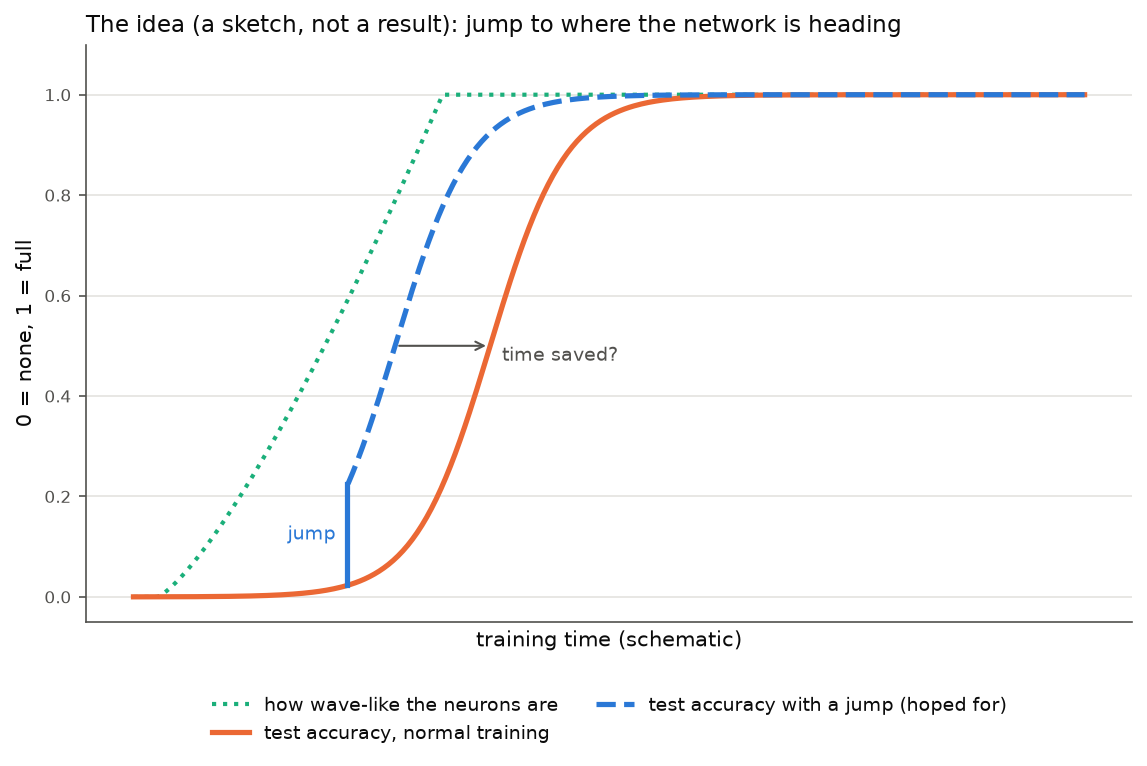
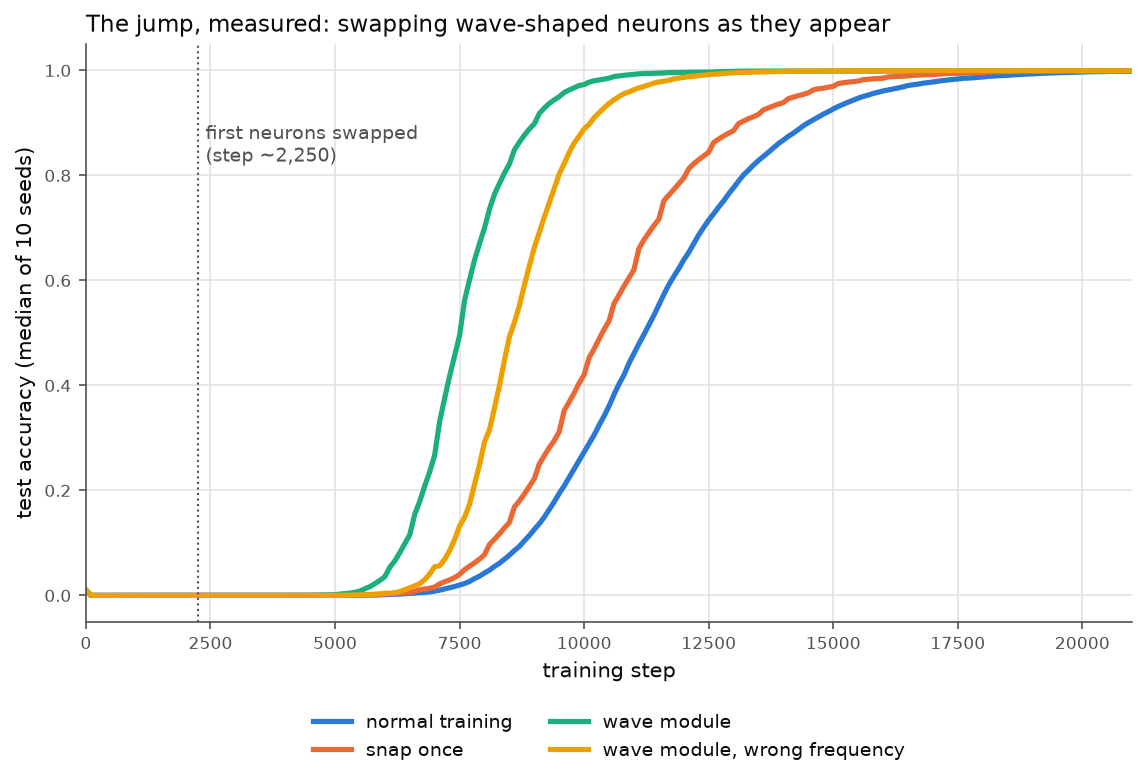
docs: update intuition folder with substitution results
Sections on how the jump idea was tested and what was found: wave module
+41%, wrong-frequency control +33%, waves from step 0 as a lesson in
inductive bias. New figures: per-seed results, snap vs mould drift, and
measured curves replacing the jump sketch.

diff --git a/intuition/make_figures.py b/intuition/make_figures.py
@@ -1,7 +1,7 @@
 """Make the teaching figures for intuition/README.md.
 
 Run from the repo root: uv run python intuition/make_figures.py
-Reads (CPU only) runs/mlp_baseline/seed0/ and writes PNGs to intuition/figures/.
+Reads (CPU only) runs/mlp_baseline/seed0/ and runs/t6/ and writes PNGs to intuition/figures/.
 """
 
 import json
@@ -15,11 +15,26 @@ import numpy as np
 from matplotlib.colors import ListedColormap
 from matplotlib.patches import Patch
 
+from quickgrok.accel import harmonic_basis
 from quickgrok.data import make_dataset
-from quickgrok.train import load_model
+from quickgrok.models import load_model
 
 ROOT = Path(__file__).resolve().parent.parent
 RUN = ROOT / "runs" / "mlp_baseline" / "seed0"
+T6 = ROOT / "runs" / "t6"
+ARMS = {  # run folder -> plain-language label, in plotting order
+    "vanilla": "normal training",
+    "project": "snap once",
+    "module": "wave module",
+    "module_random_k": "wave module, wrong frequency",
+    "module_all_step0": "all waves from the start",
+    "module_all_step0_random_k": "all waves from the start, wrong frequencies",
+}
+SWAP_NEURON = (
+    15,
+    2,
+    3_000,
+)  # neuron, fitted frequency, swap step: first event of seed 0
 OUT = Path(__file__).resolve().parent / "figures"
 P = 97
 NEURON = (
@@ -27,6 +42,7 @@ NEURON = (
 )
 
 BLUE, ORANGE, GREEN, YELLOW = "#2a78d6", "#eb6834", "#1baf7a", "#eda100"
+COLOURS = (BLUE, ORANGE, GREEN, YELLOW, "#e87ba4", "#008300")
 INK, MUTED, GRID = "#0b0b0b", "#52514e", "#e4e3df"
 TEST_TINT = (
     "#f7d5c6"  # light orange for the many held-out cells, so the train cells stand out
@@ -429,58 +445,129 @@ def plot_poly_vs_wave() -> None:
     save(fig, "poly_vs_wave.png")
 
 
-def plot_jump_idea() -> None:
-    """Schematic: normal training path vs a hypothetical 'jump' to the visible structure."""
-    t = np.linspace(0, 40, 400)
-    normal = 1 / (1 + np.exp(-(t - 15) / 1.6))
-    t_jump, shift = 9.0, 4.0
-    after = t >= t_jump
-    jump = 1 / (1 + np.exp(-(t[after] - (15 - shift)) / 1.6))
-    structure = np.clip((t - 1) / 12, 0, 1) ** 1.3
-    y0 = 1 / (1 + np.exp(-(t_jump - 15) / 1.6))
+def load_history(run: Path) -> tuple[np.ndarray, np.ndarray]:
+    """Return logged steps and test accuracy of one run from its metrics.json."""
+    hist = json.loads((run / "metrics.json").read_text())
+    return np.array([h["step"] for h in hist]), np.array([h["val_acc"] for h in hist])
 
+
+def grok_step(run: Path) -> int:
+    """First logged step at which test accuracy reaches 99%."""
+    steps, test = load_history(run)
+    return int(steps[np.argmax(test >= 0.99)])
+
+
+def plot_jump_idea() -> None:
+    """Measured test accuracy (median of 10 seeds) for normal training and the three jump arms."""
+    end = 21_000
+    grid = np.arange(0, end + 1, 100)
     fig, ax = plt.subplots(figsize=(9, 5))
-    ax.plot(
-        t, structure, color=GREEN, lw=2, ls=":", label="how wave-like the neurons are"
-    )
-    ax.plot(t, normal, color=ORANGE, lw=2.5, label="test accuracy, normal training")
-    ax.plot(
-        t[after],
-        jump,
-        color=BLUE,
-        lw=2.5,
-        ls="--",
-        label="test accuracy with a jump (hoped for)",
-    )
-    ax.plot([t_jump, t_jump], [y0, jump[0]], color=BLUE, lw=2.5)
+    for (arm, label), color in zip(list(ARMS.items())[:4], COLOURS):
+        curves = []
+        for run in sorted((T6 / arm).glob("seed*")):
+            steps, test = load_history(run)
+            # A run stops 3,000 steps after grokking; hold its last value after that.
+            curves.append(np.interp(grid, steps, test))
+        ax.plot(grid, np.median(curves, axis=0), color=color, lw=2.5, label=label)
+    ax.axvline(2_250, color=MUTED, ls=":", lw=1)
     ax.text(
-        t_jump - 0.5,
-        (y0 + jump[0]) / 2,
-        "jump",
-        color=BLUE,
-        ha="right",
-        va="center",
+        2_400,
+        0.9,
+        "first neurons swapped\n(step ~2,250)",
+        color=MUTED,
         fontsize=9,
+        va="top",
     )
-    ax.annotate(
-        "",
-        xy=(15 - shift, 0.5),
-        xytext=(15, 0.5),
-        arrowprops={"arrowstyle": "<-", "color": MUTED, "lw": 1},
-    )
-    ax.text(
-        15 + 0.5, 0.48, "time saved?", ha="left", va="center", color=MUTED, fontsize=9
-    )
-    ax.set_xlabel("training time (schematic)")
-    ax.set_ylabel("0 = none, 1 = full")
-    ax.set_xticks([])
-    ax.set_ylim(-0.05, 1.1)
-    ax.set_title(
-        "The idea (a sketch, not a result): jump to where the network is heading"
-    )
-    ax.legend(loc="upper center", bbox_to_anchor=(0.5, -0.1), ncol=2, fontsize=9)
+    ax.set_xlim(0, end)
+    ax.set_ylim(-0.05, 1.05)
+    ax.set_xlabel("training step")
+    ax.set_ylabel("test accuracy (median of 10 seeds)")
+    ax.set_title("The jump, measured: swapping wave-shaped neurons as they appear")
+    ax.legend(loc="upper center", bbox_to_anchor=(0.5, -0.13), ncol=2, fontsize=9)
     style_axes(ax)
     save(fig, "jump_idea.png")
+
+
+def plot_results_dots() -> None:
+    """Steps to 99% test accuracy per seed for the six arms, median marked."""
+    fig, ax = plt.subplots(figsize=(10, 5.4))
+    rng = np.random.default_rng(0)
+    base = None
+    for row, ((arm, label), color) in enumerate(zip(ARMS.items(), COLOURS)):
+        steps = np.array([grok_step(r) for r in sorted((T6 / arm).glob("seed*"))])
+        y = -row + rng.uniform(-0.15, 0.15, len(steps))  # jitter so equal steps show
+        ax.plot(steps, y, "o", color=color, ms=6, mec="white", mew=0.8)
+        med = float(np.median(steps))
+        base = base or med
+        ax.plot([med, med], [-row - 0.3, -row + 0.3], color=INK, lw=2)
+        note = f"median {med:,.0f}" + (
+            "" if row == 0 else f"  ({1 - med / base:.0%} fewer)"
+        )
+        ax.text(med + 250, -row + 0.3, note, fontsize=9, va="bottom")
+    ax.plot([], [], "o", color=MUTED, ms=6, label="one seed (one training run)")
+    ax.plot([], [], color=INK, lw=2, label="median of 10 seeds")
+    ax.set_yticks(-np.arange(len(ARMS)), list(ARMS.values()))
+    ax.tick_params(axis="y", labelsize=10, colors=INK)
+    ax.set_ylim(-len(ARMS) + 0.4, 0.8)
+    ax.set_xlim(0, 21_000)
+    ax.set_xlabel("training steps until test accuracy ≥ 99% (fewer is faster)")
+    ax.set_title("How long each version takes to grok (10 seeds each)")
+    ax.legend(loc="upper center", bbox_to_anchor=(0.5, -0.13), ncol=2, fontsize=9)
+    style_axes(ax)
+    ax.grid(axis="y", visible=False)
+    save(fig, "results_dots.png")
+
+
+def outside_share(run: Path, neuron: int, k: int) -> tuple[np.ndarray, np.ndarray]:
+    """Share of a neuron's input-weight energy (column of U) outside its fitted waves, per checkpoint.
+
+    The waves are the 9 basis functions used by the substitution: a constant plus cos and sin
+    of frequency k and its harmonics 2k, 3k, 4k.
+    """
+    B = harmonic_basis([k], P, 4)[0].double().numpy()
+    proj = B @ np.linalg.pinv(B)
+    steps, shares = [], []
+    for ckpt in sorted(run.glob("step_*.pt")):
+        u = (
+            load_model(ckpt)[0]
+            .state_dict()["embed_a.weight"]
+            .double()
+            .numpy()[:, neuron]
+        )
+        r = u - proj @ u
+        steps.append(int(ckpt.stem.removeprefix("step_")))
+        shares.append(float(r @ r / (u @ u)))
+    return np.array(steps), np.array(shares)
+
+
+def plot_snap_vs_mould() -> None:
+    """One neuron (seed 0) swapped at the same moment in a 'snap once' and a 'module' run."""
+    neuron, k, swap = SWAP_NEURON
+    fig, axes = plt.subplots(1, 2, figsize=(14, 4.8), gridspec_kw={"wspace": 0.2})
+    for arm, color in zip(list(ARMS)[:3], COLOURS):
+        steps, share = outside_share(T6 / arm / "seed0", neuron, k)
+        if (
+            arm != "vanilla"
+        ):  # checkpoints are saved just before the swap; right after it is 0
+            i = int(np.searchsorted(steps, swap)) + 1
+            steps, share = np.insert(steps, i, swap), np.insert(share, i, 0.0)
+        for ax in axes:
+            ax.plot(steps, 100 * share, color=color, lw=2.2, label=ARMS[arm])
+    for ax in axes:
+        ax.axvline(swap, color=MUTED, ls=":", lw=1)
+        ax.set_xlabel("training step")
+        style_axes(ax)
+    axes[0].set_ylabel("% of weight energy outside its waves")
+    axes[0].text(swap + 300, 70, f"swap at step {swap:,}", color=MUTED, fontsize=9)
+    axes[0].set_title(f"Neuron {neuron} (frequency {k}), seed 0: whole run")
+    axes[0].legend(loc="upper right", fontsize=9)
+    ax = axes[1]
+    ax.set_xlim(swap - 500, 21_500)
+    ax.set_ylim(-1, 20)
+    ax.set_title("Zoom after the swap: snapped drifts back, moulded stays at 0")
+    ax.text(12_000, 9, "snap once: back to ~7%,\nlike normal training", color=ORANGE)
+    ax.text(12_000, 1.5, "wave module: held at 0%", color=GREEN)
+    save(fig, "snap_vs_mould.png")
 
 
 def main() -> None:
@@ -491,6 +578,8 @@ def main() -> None:
     plot_neuron_lens()
     plot_poly_vs_wave()
     plot_jump_idea()
+    plot_results_dots()
+    plot_snap_vs_mould()
 
 
 if __name__ == "__main__":

diff --git a/intuition/README.md b/intuition/README.md
@@ -1,6 +1,6 @@
 # Grokking, and can we make it happen sooner?
 
-*An intuition-first tour of the quickgrok project, written for second-semester data science students. Status as of 7 November 2026: **work in progress**.*
+*An intuition-first tour of the quickgrok project, written for second-semester data science students. Status as of 7 November 2026: **first results in, work in progress**.*
 
 You need: basic Python, mean and variance, linear regression with least squares, train/test splits and overfitting, and a rough idea of what a neural network is (layers, weights, ReLU, gradient descent). You do **not** need Fourier analysis. We build the little of it we need from a clock.
 
@@ -22,7 +22,7 @@ Read the x-axis carefully: it is on a **log scale**, so each grid line means ten
 
 The network "got it" about 90 times later than it memorised. This delayed understanding is called **grokking** (from a science-fiction novel, where "to grok" means to understand something deeply). It was first reported in 2022 (Power et al.).
 
-The question behind this project: **can we make grokking happen sooner?** Before we can answer that, we need to understand the task, what "understanding" looks like inside the network, and why it takes so long.
+The question behind this project: **can we make grokking happen sooner?** Short answer (section 7): yes, by 41% on this task, but *why* it works turned out to be the more interesting lesson. Before we get there, we need to understand the task, what "understanding" looks like inside the network, and why it takes so long.
 
 ## 2. The task: clock arithmetic with 97 hours
 
@@ -118,54 +118,83 @@ The middle row shows the median R² over all 512 neurons. **Polynomial regressio
 
 The bottom row is the share of each neuron's explained variance that comes from its single best frequency. It climbs **long before** test accuracy jumps. In the shaded band (the middle 50% of neurons), the top quarter of neurons are already above 0.85 by about step 11,000, when test accuracy is still below 50%. Some neurons are "done" thousands of steps before the network as a whole has generalised.
 
-## 6. The idea: if we can see where the network is heading, can we jump there?
+## 6. The idea, and how we tested it
 
 **Analogy.** You are hiking in fog towards a summit. The path zig-zags slowly upwards. At some point the fog lifts for a moment and you see the summit. You could keep following the zig-zag, or you could walk straight towards it.
 
-In our case the "zig-zag" is the long plateau where the network slowly trades its lookup table for the rule. The "summit" is the simple wave shape each neuron ends up with. And we can see that shape early, at least for some neurons.
+In our case the "zig-zag" is the long plateau where the network slowly trades its lookup table for the rule. The "summit" is the simple wave shape each neuron ends up with. The plan has three steps: (1) check that we can see the summit early, (2) jump towards it, (3) check fairly whether the jump saved time.
 
-![jump idea](figures/jump_idea.png)
+### Step 1: can we see the destination early?
 
-*This figure is a sketch of the hope, not a measured result.*
+We added a **probe** to training. Every 500 steps it runs the regression from section 5 on every one of the 512 neurons. It uses **training pairs only**: 80% of them to fit the waves and the other 20% to check the fit (a train/test split inside the training set). A neuron is flagged as "wave-shaped" when the waves explain at least 80% of its variance on the check pairs, and at least half of that comes from one frequency and its harmonics.
 
-The planned method:
+**Result:** 10% of the neurons are flagged at **36–54% of the way to grokking** (around step 6,000–10,000 of ~18,000, depending on how strict the thresholds are), while test accuracy is still about **0%**. So the summit really is visible early, for some neurons. (Running the probe did not change when the network grokked.)
 
-1. Train normally. Every few hundred steps, run the regression from section 5 on every neuron.
-2. When a neuron is fitted well (high R², one frequency dominating), **jump**: replace that neuron by its fitted wave function. The wave function's amplitude and phase stay trainable, so the network can still adjust it.
-3. Keep training, and measure how many steps it takes to reach 99% test accuracy.
+### Step 2: jump, in two different ways
 
-How we will judge it fairly:
+When the probe flags a neuron, we replace it by its fitted waves. We tried two versions:
 
-- **Many random seeds.** A **seed** fixes the random starting weights and the random choices during training. Different seeds grok at different times. For this MLP, five seeds grokked between steps 18,200 and 18,700 (that is the middle 50%, the interquartile range), so we need a speed-up clearly bigger than that spread. Even with identical settings, training on a GPU is not exactly reproducible, which is one more reason to use many seeds.
-- **No peeking at the test set.** The regression that decides when to jump may only use **training** pairs. If it used test pairs, we would be quietly leaking the answers.
-- **Controls.** We will also replace neurons with the **wrong** frequency. If that helps just as much, the speed-up didn't come from finding the right structure. It may come from the replacement itself, for example from shrinking the weights, which is what weight decay already does.
-- **Compare with known tricks.** There are existing methods to speed up grokking, such as **Grokfast**, which amplifies the slow-moving part of the gradient. Our idea is only interesting if it can compete with them, or teaches us something they don't.
+- **Snap once.** Overwrite the neuron's weights with the fitted wave, then let training continue as normal. Gradient descent may change the weights back.
+- **Wave module.** Replace the neuron's 97 weights per input with a small trainable function: a constant plus a cosine and sine at the neuron's frequency and 3 harmonics. That is **9 numbers instead of 97**. Training can still change the 9 numbers (how big each wave is and where it peaks), but the neuron can never stop being a wave of that frequency.
 
-## 7. How it is going (honest status)
+**Analogy: a sculpture of wet clay.** *Snap once* presses the clay into a mould once and takes it out again. It may sag back. The *wave module* leaves the clay in the mould: you can still push it around inside, but it keeps the mould's shape.
 
-**Done:**
+At the moment of the swap the two versions give exactly the same network. They differ only in what happens afterwards. This figure follows one neuron that was swapped at step 3,000 in both versions (same starting weights):
 
-- Grokking is reproduced in two models: the MLP (99% test accuracy at step ~18,500, very consistent over 5 seeds) and a small one-layer transformer (between ~19,600 and ~29,700 steps over 3 seeds, a much bigger spread). The MLP is therefore the better test bed.
-- The "inside view" is clear: after grokking, neurons are periodic in a and b with one dominant frequency. Waves explain ~91–97% of their variance; polynomials ~0%.
-- Neurons drift towards these shapes well before test accuracy jumps.
+![snap vs mould](figures/snap_vs_mould.png)
 
-**Side results:**
+The y-axis shows how much of the neuron's weights its 9 waves **cannot** explain (the "energy" is the sum of squared weights, so this is roughly 1 − R²). At the start it is 79%: random weights are not waves. Normal training (blue) slowly pushes this down to ~7%. Snapping (orange) drops it to 0%, but within ~2,000 steps the neuron has drifted back to ~7%, where normal training would have it anyway. Across all 298 neurons snapped in that run, the median at the end is ~6%. The wave module (green) holds it at 0% for good.
 
-- We tried **PCA** (principal component analysis) on the hidden layer. The number of directions needed to explain 99% of the variance drops from ~300 to ~25 as the network generalises. But no individual neuron goes idle: every neuron stays active and the structure is shared among them. So simply **pruning** (deleting) neurons does not help.
+### Step 3: a fair comparison
 
-  ![PCA](../reports/figures/pilot/pca_rank.png)
+A single run proves little, because each run groks at a slightly different time. So we compare **10 seeds** per version. A **seed** fixes the random choices of a run: the starting weights and which 30% of pairs are used for training. 10 seeds means 10 independent training runs of the same recipe. If a method is really faster, it should be faster for (nearly) every seed, not just on average.
 
-- The MLP's neurons are **square waves**, not smooth cosines. So the replacement function must allow harmonics (as in the green dashed line in the regression figure above), not just one cosine.
+How do scientists avoid fooling themselves? They ask: **what else could explain the result?** Then they design a **control experiment** in which that other explanation predicts something different. Our main worry: maybe the speed-up comes not from jumping to the *right* waves, but just from forcing the neuron to be *some* wave. The control: the **wrong frequency**. It uses the same trigger, the same neurons and the same moment, but each neuron gets a randomly chosen frequency that is *not* its own. If that helps just as much, "seeing where the network is heading" was not the reason.
 
-**In progress:** an online "probe" that runs the regression *during* training using training pairs only. After that come the actual replacement experiments.
+We added a second, more extreme control: make **every neuron a wave module at step 0**, before any training (with right and with wrong frequencies). At step 0 there is nothing to "see" yet.
 
-**What could realistically happen:**
+Two more fairness rules. The probe thresholds were tuned on 5 separate seeds (100–104) and fixed before the 10 final seeds were run, just like choosing settings on a validation set and not on the test set. And the probe never touches the test pairs.
 
-- **It helps:** grokking arrives clearly earlier than the seed spread, and the wrong-frequency control does not help. That would be a nice result.
-- **No effect:** the network may undo our replacement, or the early structure (only partly formed) may not be good enough to be useful. Related work ("grokking tickets") found that structure taken from the middle of training did not help.
-- **It helps for the wrong reason:** the wrong-frequency control helps just as much. Then the speed-up comes from something generic, like shrinking weights, not from "jumping to the answer". This is exactly why the controls are in the plan.
+## 7. What we found
 
-A negative result is still informative: it would tell us that seeing the destination early is not enough to get there faster.
+Each dot below is one seed, so one complete training run. The black bar is the median of the 10 seeds.
+
+![results dots](figures/results_dots.png)
+
+The measured test-accuracy curves (median of 10 seeds) for the first four versions:
+
+![jump measured](figures/jump_idea.png)
+
+**1. The jump works, and the mould beats the snap.** Normal training reaches 99% test accuracy at a median of **18,400** steps. The wave module needs **10,800**: **41% fewer**, and even its slowest seed (11,700) beats the fastest normal one (17,600). Snap once gives only **10%** (16,600). That fits the figure above: a snapped neuron drifts back, so most of the push is lost.
+
+**2. But the wrong frequency helps almost as much.** With wrong frequencies the wave module still needs only **12,350** steps (**33% fewer**). So most of the gain does not come from jumping to where the network was heading. It comes from forcing neurons to be waves *at all*. The right frequency adds a smaller but real extra (the wrong frequency is 14% slower than the right one).
+
+**Analogy: the formula sheet.** One teacher waits until a student has nearly worked out a formula, then confirms it ("yes, that's the one"). Another hands out a formula sheet on day one. Our experiment says: most of the benefit comes from the *kind* of formula on the sheet (waves), and only a little from it being the exact formula the student was about to find.
+
+**3. Waves from the start: 700 steps.** Making every neuron a wave module at step 0 groks after **~700 steps** instead of ~18,400, about 26× faster. With random frequencies it takes **~1,450**. This is no longer "accelerating training". We have built the shape of the answer into the network, so there is little left to discover. That is the real lesson. An assumption built into a model is called an **inductive bias** (or **prior**), and a good one can matter more than any training trick. You will meet the same idea later: convolutional networks for images build in "the same pattern can appear anywhere in the picture".
+
+A statistical test (the Mann–Whitney test, which asks how often a run from one group beats a run from the other) says that none of these differences is likely to be luck.
+
+**Honest framing.**
+
+- **No cheating with test data.** All fits use training inputs only.
+- **But we brought prior knowledge.** We chose waves as the replacement because section 5 told us the answer looks like waves. On a task whose answer is *not* clock-shaped, our wave module would be the wrong mould. The "wait and watch" probe is also beaten by imposing waves from the start, so on this task it is more useful as a microscope than as an accelerator.
+- **Limits.** One task, one network size, one training setting. We have not yet compared against known tricks such as **Grokfast**.
+
+**Along the way:** PCA (principal component analysis) of the hidden layer shows the number of directions needed for 99% of the variance dropping from ~300 to ~25 as the network generalises. But no single neuron goes idle, so simply deleting neurons does not help. And the neurons are **square waves**, not smooth cosines, which is why the wave module needs harmonics.
+
+![PCA](../reports/figures/pilot/pca_rank.png)
+
+### Next step (planned, not done yet)
+
+Make the method honest about its prior: a **generic fitter** that has to choose its own basis (waves, polynomials, or something else) from the data, instead of being told "use waves". Then test it where clock waves do not apply:
+
+- **Multiplication mod p** (on a clock, multiplying is not turning);
+- **permutation groups** (combining shuffles of a deck of cards, where order matters);
+- **sparse parity** (is the number of 1s among a few hidden bits even or odd?);
+- real data: **MNIST** (handwritten digits) and **QM9** (properties of small molecules).
+
+If the fitter finds useful structure there too, it is a real accelerator. If it only works on clock arithmetic, we have learned that the speed-up was mostly our own prior knowledge.
 
 ## 8. Things to try / discussion questions
 
@@ -173,28 +202,33 @@ A negative result is still informative: it would tell us that seeing the destina
 2. **Clock features by hand.** Make a 12 × 12 table and use as target y = cos(2π·((a + b) mod 12)/12), the answer's position on the clock. Fit it by least squares (`numpy.linalg.lstsq`) twice: once with features 1, a, b, a², ab, b², and once with features cos/sin(2πa/12), cos/sin(2πb/12) and their four products. Compare the R². Why is one of them perfect? (Hint: the angle-addition formula in section 5.)
 3. **Why 30%?** The project found that with 40–50% training data the delay mostly disappears. Why might more data make memorising less attractive compared with the rule?
 4. **Weight decay as a dial.** With weaker weight decay (0.3 instead of 1.0), grokking took longer (between steps 20k and 25k instead of 15k–20k). Explain this with the "tax on stored answers" analogy. What would you expect with no weight decay at all?
-5. **Fair comparison.** Suppose the jump method reaches 99% test accuracy at step 17,000 in one run, against 18,200 for normal training. Is that evidence that it works? What would you need to see?
+5. **Fair comparison.** Suppose the jump method reaches 99% test accuracy at step 17,000 in one run, against 18,200 for normal training. Is that evidence that it works? Look at the normal-training dots in the results figure of section 7: how far apart are the fastest and slowest seeds? What would you need to see?
 6. **Cheating check.** Why does it matter that the regression probe only uses training pairs? Describe how using test pairs could make the method look better than it is.
+7. **Design a control.** The wave module has 9 trainable numbers per input instead of 97. Maybe it is faster simply because it has fewer numbers to learn, not because they are waves. Design a control that tests this. What result would make you drop the "waves" explanation?
+8. **Prior or cheating?** "All waves from the start" groks in 700 steps. Is that a fair way to "speed up grokking"? What do you expect it to do on a task whose answer is not wave-shaped? Name another model you know that builds an assumption about the data into its design (hint: think of linear regression itself).
 
 ## 9. Glossary
 
 - **Accuracy:** share of examples where the network's top-scoring answer is correct.
-- **Controls:** extra experiments designed to rule out boring explanations (here, a wrong-frequency replacement).
+- **Control experiment:** an extra experiment designed so that a boring explanation of the result would show up there too (here: replacing neurons with the wrong frequency).
 - **Fourier features / waves:** cos(2πk·x/p) and sin(2πk·x/p). They describe where x sits on a clock with p hours when you go round k times.
 - **Frequency (k):** how many times a wave repeats as x goes from 0 to p.
 - **Generalise:** perform well on data not seen in training.
 - **Grokking:** test accuracy jumping to near 100% long after training accuracy did.
 - **Grokfast:** a known method to speed up grokking by amplifying the slow, consistent part of the gradient.
 - **Harmonic:** a wave at 2×, 3×, … the base frequency. Square waves are made of a base wave plus harmonics.
+- **Inductive bias:** an assumption built into a model's design that makes some solutions easier to learn than others (here: "each neuron is a wave").
 - **IQR (interquartile range):** the range covering the middle 50% of values.
 - **Loss:** the error the network minimises during training (here cross-entropy).
 - **MLP:** a network of fully-connected layers; ours has one hidden layer of 512 ReLU neurons.
 - **mod p:** the remainder after dividing by p ("clock arithmetic").
 - **Memorisation:** fitting the training data without learning a rule that transfers to new data.
 - **Neuron:** one unit in a hidden layer; here its output is ReLU(weight for a + weight for b + bias).
+- **Median:** the middle value when sorted; with 10 seeds, the average of the 5th and 6th. Unlike the mean, one odd run cannot drag it far.
 - **PCA:** principal component analysis, a way to find the few directions that explain most of the variance in data.
-- **Probe:** a small analysis (here a regression) used to look inside a trained network.
+- **Prior:** knowledge about the problem that you bring in before seeing the data; built into a model, it becomes an inductive bias.
+- **Probe:** a small analysis (here a regression) used to look inside a network, during or after training.
 - **R²:** share of variance explained by a regression; 1 is perfect, 0 is no better than the mean.
-- **Seed:** the number that fixes all random choices in a run; different seeds give different runs.
+- **Seed:** the number that fixes all random choices in a run (starting weights and which pairs go into the training set); different seeds give different runs. Running many seeds shows how much a result varies by chance.
 - **Transformer:** the network architecture behind modern language models; we use a tiny one-layer version as a second test case.
 - **Weight decay:** a penalty on large weights added to the loss, related to ridge regression.
